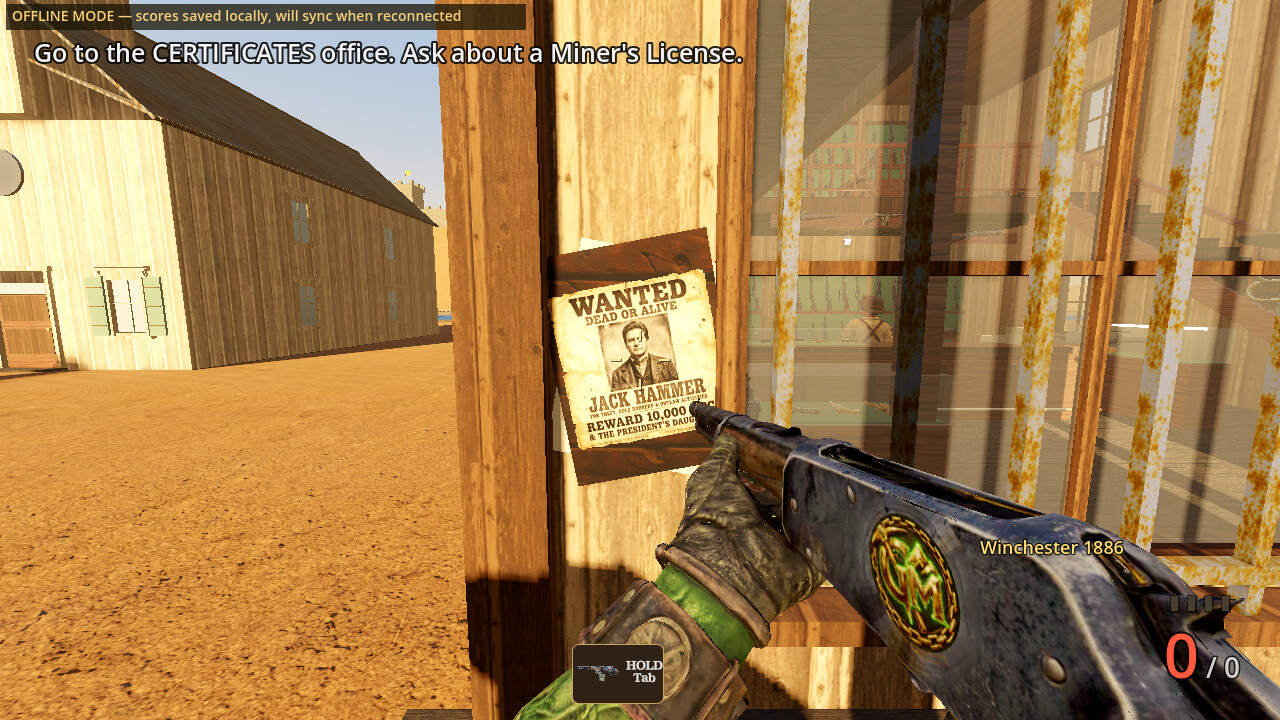
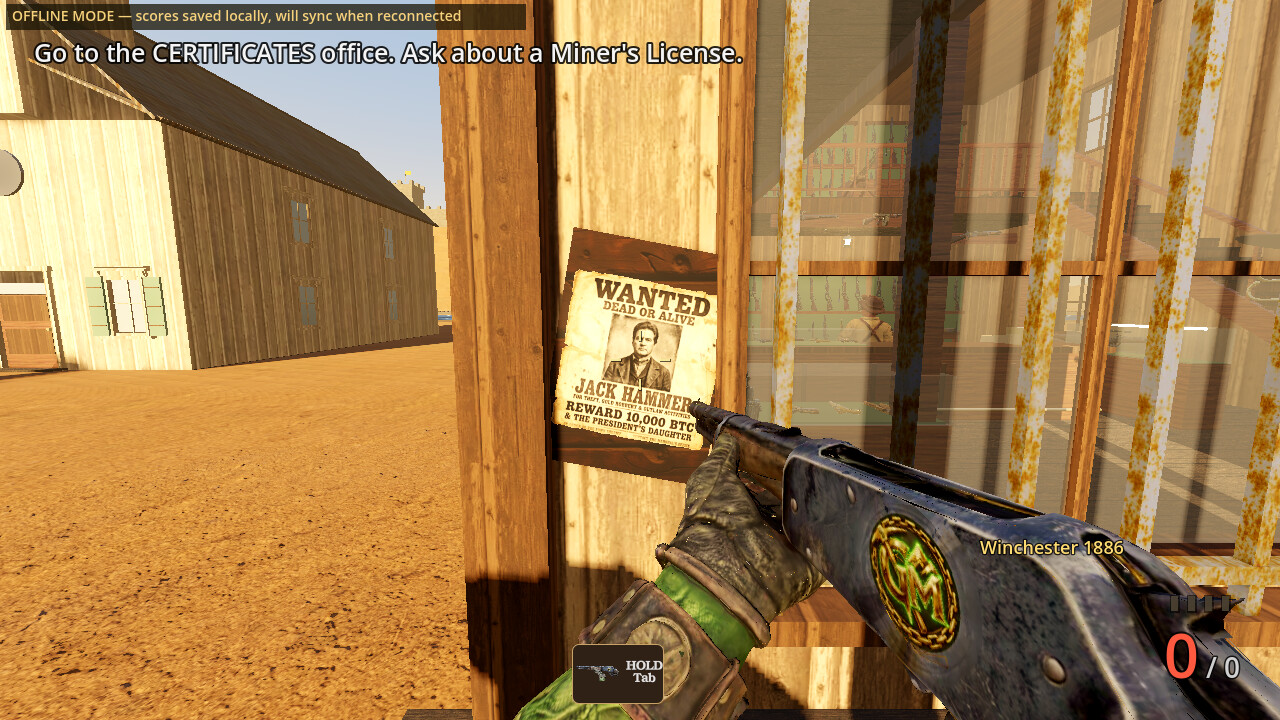
Cover every baked Armory paper corner with correctly aligned official bills

Changed region(s): [[0.4062, 0.3056, 0.5625, 0.6722]]

diff --git a/docs/episode2-quality/jackhammer-20261117/REPORT.md b/docs/episode2-quality/jackhammer-20261117/REPORT.md
@@ -4,7 +4,7 @@ Source: Drive `1GCG24Wf3uzR6GX_xVstsOFWnt596UEAM`, “Jackhammer Wanted”, 2048
 
 The original is preserved under `artifacts/episode2-gold-mine/references/`. The runtime PNG uses the existing founder-bill white-margin flood key (9% fuzz), trimmed/resized then centered on a transparent 1024×1024 canvas without stretching. Mipmaps enabled; runtime import uses WebP at quality 0.90 to stay within the existing pack limit. The canonical PNG remains lossless. No face, wording or reward was changed. Old JPEG and import removed; town loader accepts PNG only for Jack Hammer. Cabin, hideout, auction and cabin tooling use this same PNG.
 
-Saloon's 0.62 m bill is Jack Hammer. Notice board: Jack Hammer 0.56 m, RH 0.40 m. RH also remains on Bldg_A and the cabin. Three 0.42 m Armory bills sit on timber backing over the old rectangular blank papers, at their original local centres; square paper alone would leave the old rectangular margins exposed.
+Saloon's 0.62 m bill is Jack Hammer. Notice board: Jack Hammer 0.56 m, RH 0.40 m. RH also remains on Bldg_A and the cabin. Three 0.42 m Armory bills sit on timber backing over the old rectangular blank papers, at their original local centres; square paper alone would leave the old rectangular margins exposed. Their roll follows the measured imported Paper vertices (Blender-to-Godot reverses the rotation); the gate checks every baked front-paper corner against the actual opaque backing geometry.
 
 The 4×4 m billboard is at Armory-local `(42, 3.5, 1.6)`, world `(-62, 3.5, 1466.4)`. The existing gun is at `(-29.6, 0, 1466.4)`. Building-footprint ray measurement found no building between them; the billboard is 35.2 m from the grazing horse. Its bottom is 1.5 m up; both solid supports are beyond all existing plates/bales. Center and four corners fit the gun's yaw/pitch clamps. Existing plate discs keep nearest-hit priority; the new target uses a rectangle. Same lit official texture, timber frame, 200 preallocated/reused holes, dust and hit signal, holed at 25 and shredded from 90 hits. No gameplay drum refill was added. The optional poster-construction and frame/canvas/hole-pool builders stream with the art, keeping the core pack within its existing 190 MiB budget; hit logic remains in the gun.
 
